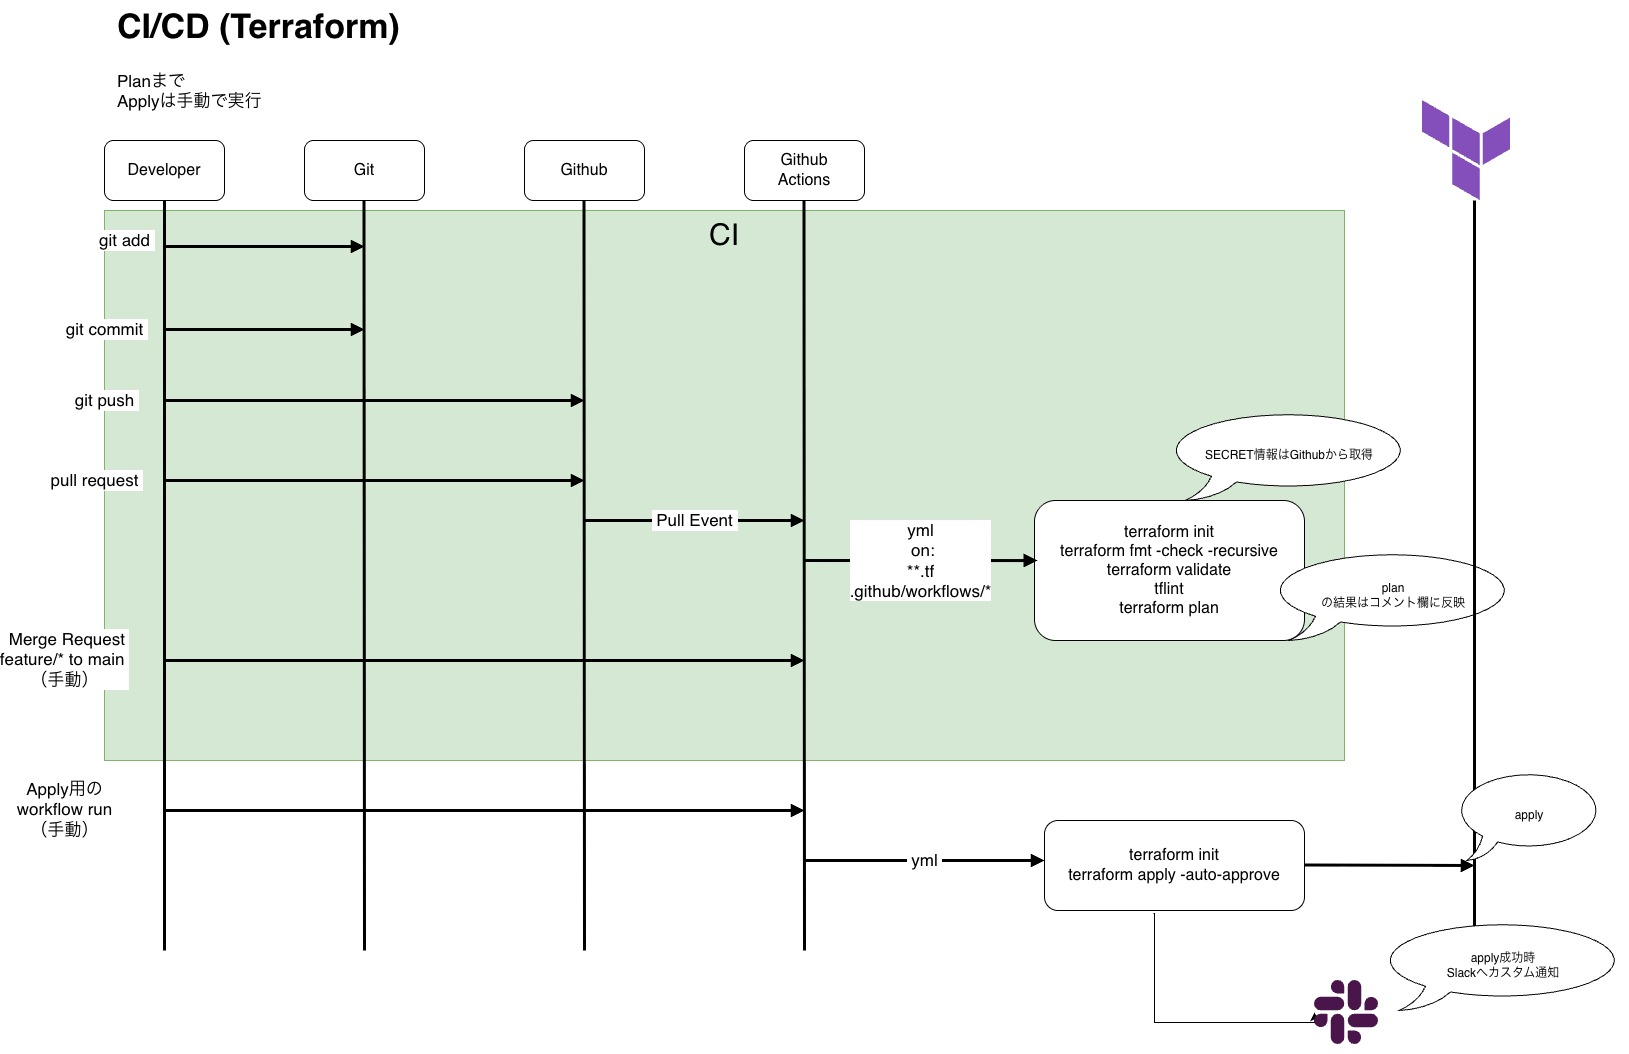
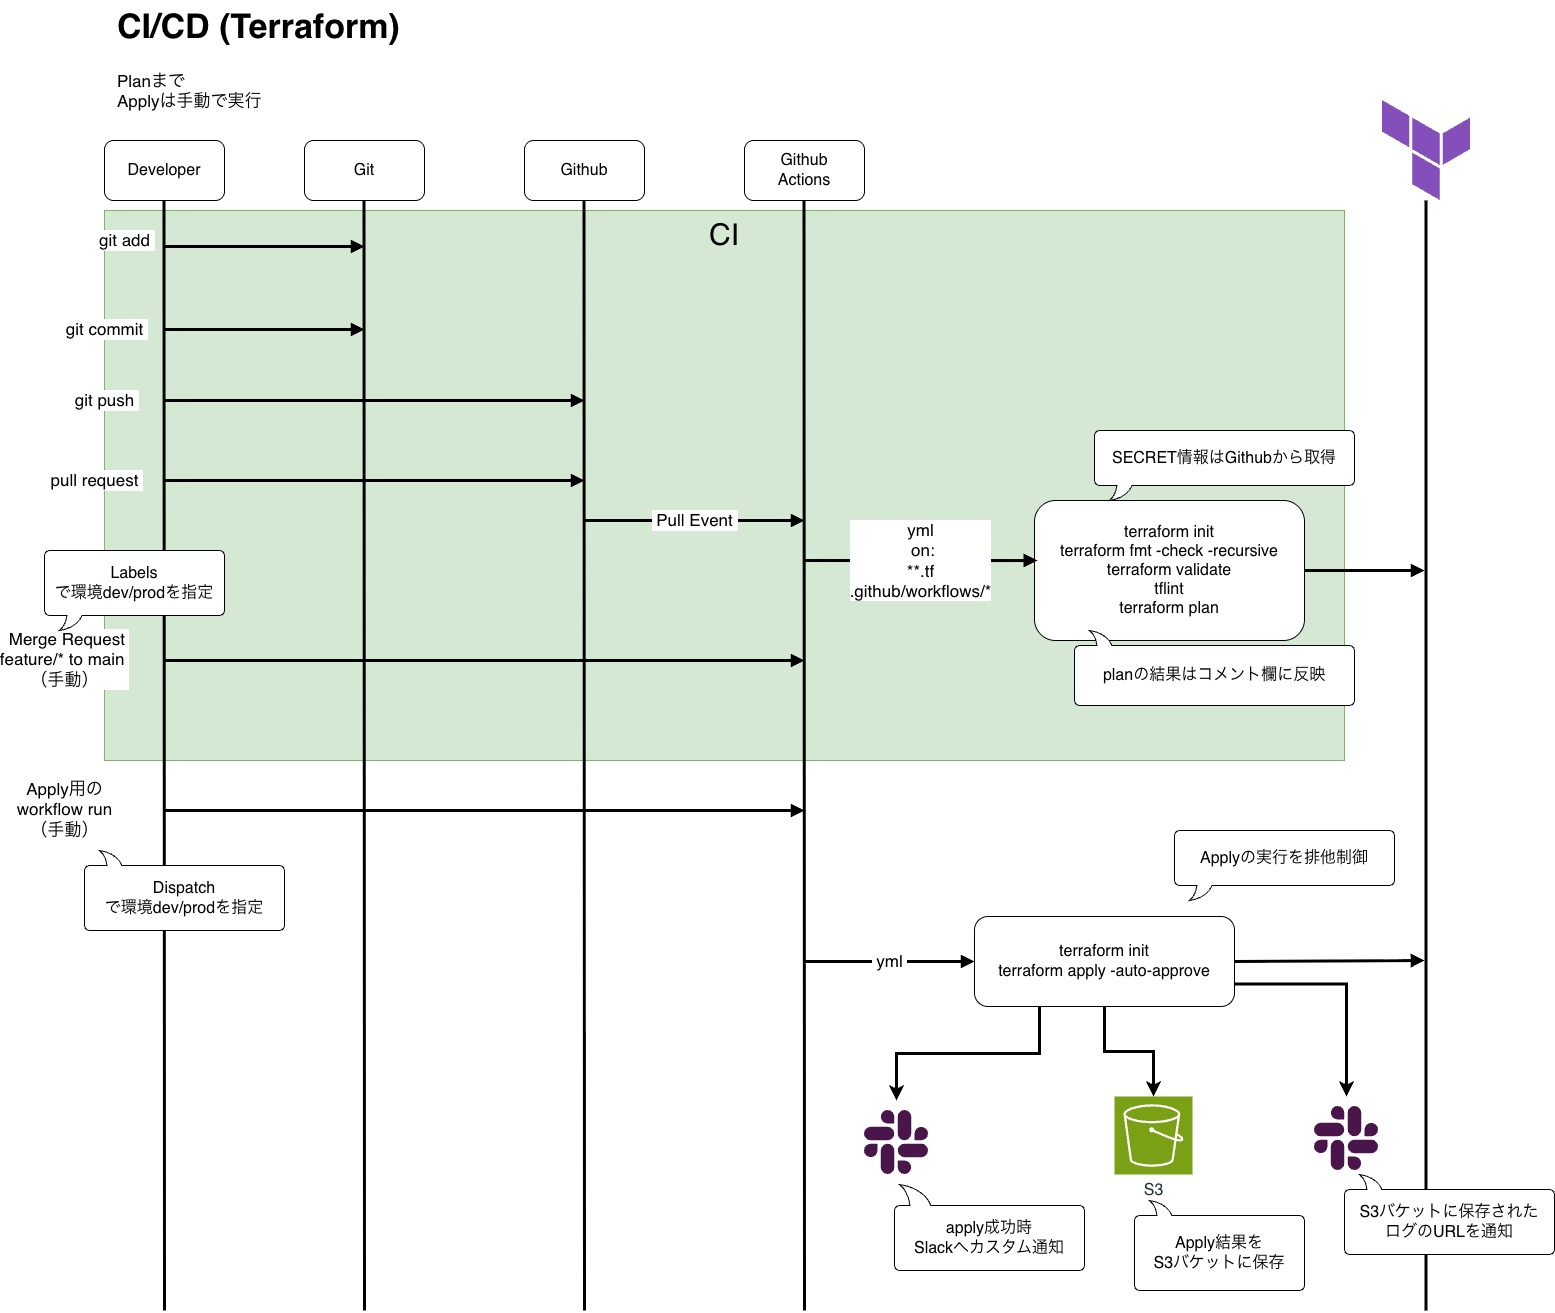
update terraform ci/cd

diff --git a/docs/projects/terraform-cicd.md b/docs/projects/terraform-cicd.md
@@ -2,66 +2,77 @@
 layout: default
 ---
 
-# TerraformによるCI/CDパイプライン
+# TerraformによるCI/CDパイプライン構築例
 
 [← 前のページに戻る](/docs/aws-hands-on.html)
+
+## 概要
+
+このページでは、TerraformとGitHub Actionsを用いたCI/CDパイプラインの構築例を紹介します。  
+個人開発環境での実装ですが、**チーム開発・現場運用を前提とした設計・再現性・通知設計**までを意識して構成しています。  
+「この構成を導入すれば、現場でちゃんと回る」──そう思ってもらえることを目的にまとめています。
+
+---
+
+## ✅ アピールポイント
+
+- **語れる構成**：CI/CDの各ステップに明確な意図と設計理由があり、説明・教育・改善が可能
+- **再現性と運用性**：Applyログの保存・Slack通知・環境分離など、実運用に必要な仕組みを網羅
+- **チーム対応力**：PRラベルによる環境判定、Slack通知によるフィードバック設計など、複数人開発を前提とした構成
+- **安全性と信頼性**：OIDCによるAWS認証、Apply排他制御、Secrets管理など、セキュリティと安定性を両立
+
+---
 
 ## CI/CDパイプライン構成図
 
 ![CI/CDフロー]({{ site.baseurl }}/images/CICD-Terraform_SPA.jpg)
 
-## CI/CDパイプライン概要説明（Terraform構成）
+---
 
-この構成では、GitHub Actionsを用いたCI/CDパイプラインを構築し、Terraformによるインフラ構成を自動的に検証・反映する仕組みを実装しています。  
-個人開発環境での構築ですが、チーム開発を想定した設計と品質管理を意識しています。
+## CI/CDパイプライン詳細（Terraform構成）
 
-### 主な構成要素
+### CI（継続的インテグレーション）
 
-- **CI（継続的インテグレーション）**
-  - Pull Request作成時にGitHub Actionsが起動
-  - `terraform init` による初期化（Workspaceとstateの設定）
-  - `terraform fmt -check -recursive` によるコード整形チェック
-  - `terraform validate` による構文検証
-  - `tflint` による静的解析
-  - `terraform plan` による差分確認
-  - `plan.txt` をPull Requestコメントに投稿し、レビュー担当者が差分を確認可能
+- Pull Request作成時にGitHub Actionsが起動
+- `terraform init` による初期化（Workspaceとstateの設定）
+- `terraform fmt` / `validate` / `tflint` によるコード検証
+- `terraform plan` による差分確認
+- `plan.txt` をPull Requestコメントに自動投稿し、レビュー担当者が差分を確認可能
+- PRラベル（`env:dev` / `env:prod`）による環境判定を自動化
 
-- **CD（継続的デリバリー）**
-  - Pull Requestを `main` ブランチにマージすると、GitHub Actionsが再度起動
-  - `terraform apply -auto-approve` により構成を反映
-  - Slack通知により、Apply結果をリアルタイムで共有
+### CD（継続的デリバリー）
 
-### フロー概要（図に基づく）
-
-1. 開発者が `git add` → `git commit` → `git push` を実行し、Pull Requestを作成
-2. GitHub上でPull Requestイベントが発生し、CI処理が開始
-3. `.github/workflows/*.yml` に定義されたGitHub Actionsが起動し、Terraformの検証・Planを実行
-4. Plan結果をPRコメントに投稿し、レビュー担当者が差分を確認
-5. Pull Requestが `main` にマージされると、Apply処理が自動実行され、構成が反映される
-6. Slack通知により、CI/CDの結果が開発者に共有される
-
-### 環境分離の仕組み
-
-- Terraform Workspaceを使用して `dev` / `prod` 環境を分離
-- `tfvars` ファイルと `tfstate` の `key` を環境ごとに切り替え
-- 現在はPRベースで自動判定しているが、今後はラベル選択式に改善予定
-- Applyは `main` ブランチへのマージ後に自動実行されるが、今後は `workflow_dispatch` による選択式に移行予定
-
-### 補足
-
-- 現在は個人開発環境のため、すべての操作は自身が担当
-- 将来的なチーム開発を想定し、レビュー者・責任者の役割も図に反映予定
-- Secrets管理には GitHub の `Actions secrets` を使用し、AWSアクセスキー等の機密情報を安全に保持
-
-### Slack通知による運用補助（カスタム通知）
-
-GitHub Actionsのワークフロー内にSlack通知ステップを組み込み、CI/CDの実行結果をリアルタイムで受け取れるように設計しています。  
-SlackのIncoming Webhookを利用し、GitHub SecretsにWebhook URLを安全に登録。Plan結果やApply成功時など、任意のタイミングで通知を送信可能です。
-
-Slack通知は、開発者がGitHub上のアクション結果を即座に把握できるようにすることで、フィードバックループの高速化と運用効率の向上を実現しています。  
-将来的には、通知チャンネルの分離や、Slack Botによる承認フロー連携なども視野に入れています。
+- `workflow_dispatch` によるApply実行（環境選択式）
+- `terraform apply` のログを画面とファイルに同時出力（`tee`）
+- ApplyログをS3にアップロードし、Slack通知でURLを共有
+- Apply処理には `concurrency` による排他制御を導入し、同一環境での同時実行を防止
 
 ---
 
-> GitHub Actionsを活用したCI/CDの設計から、Terraformによるインフラ構成の自動反映までを一貫して構築。  
-> 実運用に近い形での品質管理と公開フローを実現しています。
+## 環境分離と安全設計
+
+- Terraform Workspaceにより `dev` / `prod` を分離
+- `.tfvars` と `tfstate` の `key` を環境ごとに切り替え
+- Applyログは環境別のS3バケットに保存し、Slack通知も環境別に展開
+- AWS認証はOIDCを使用し、GitHub ActionsからIAMロールをAssume（Secrets不要）
+
+---
+
+## Slack通知による運用補助
+
+- Apply成功時にSlack通知を送信し、S3ログのURLを共有
+- ログは誰でも閲覧可能なURLとして通知され、トラブルシュートやレビューに活用可能
+- 今後はSlack Botによる承認フロー連携や通知チャンネルの分離も視野に
+
+---
+
+## 補足
+
+- 現在は個人開発環境ですが、チーム開発・現場導入を前提とした設計思想で構築
+- 構成図・README・通知設計まで一貫して整備し、説明・教育・改善が可能な状態
+- 「語れる構成」「任せられる構成」として、現場導入・案件対応に活用できるレベルを目指しています
+
+---
+
+> Terraform × GitHub ActionsによるCI/CD構成を、運用・通知・安全性まで含めて一貫して設計。  
+> 「この人に任せれば、現場でちゃんと回る」──そう思ってもらえる構成を目指しました。
